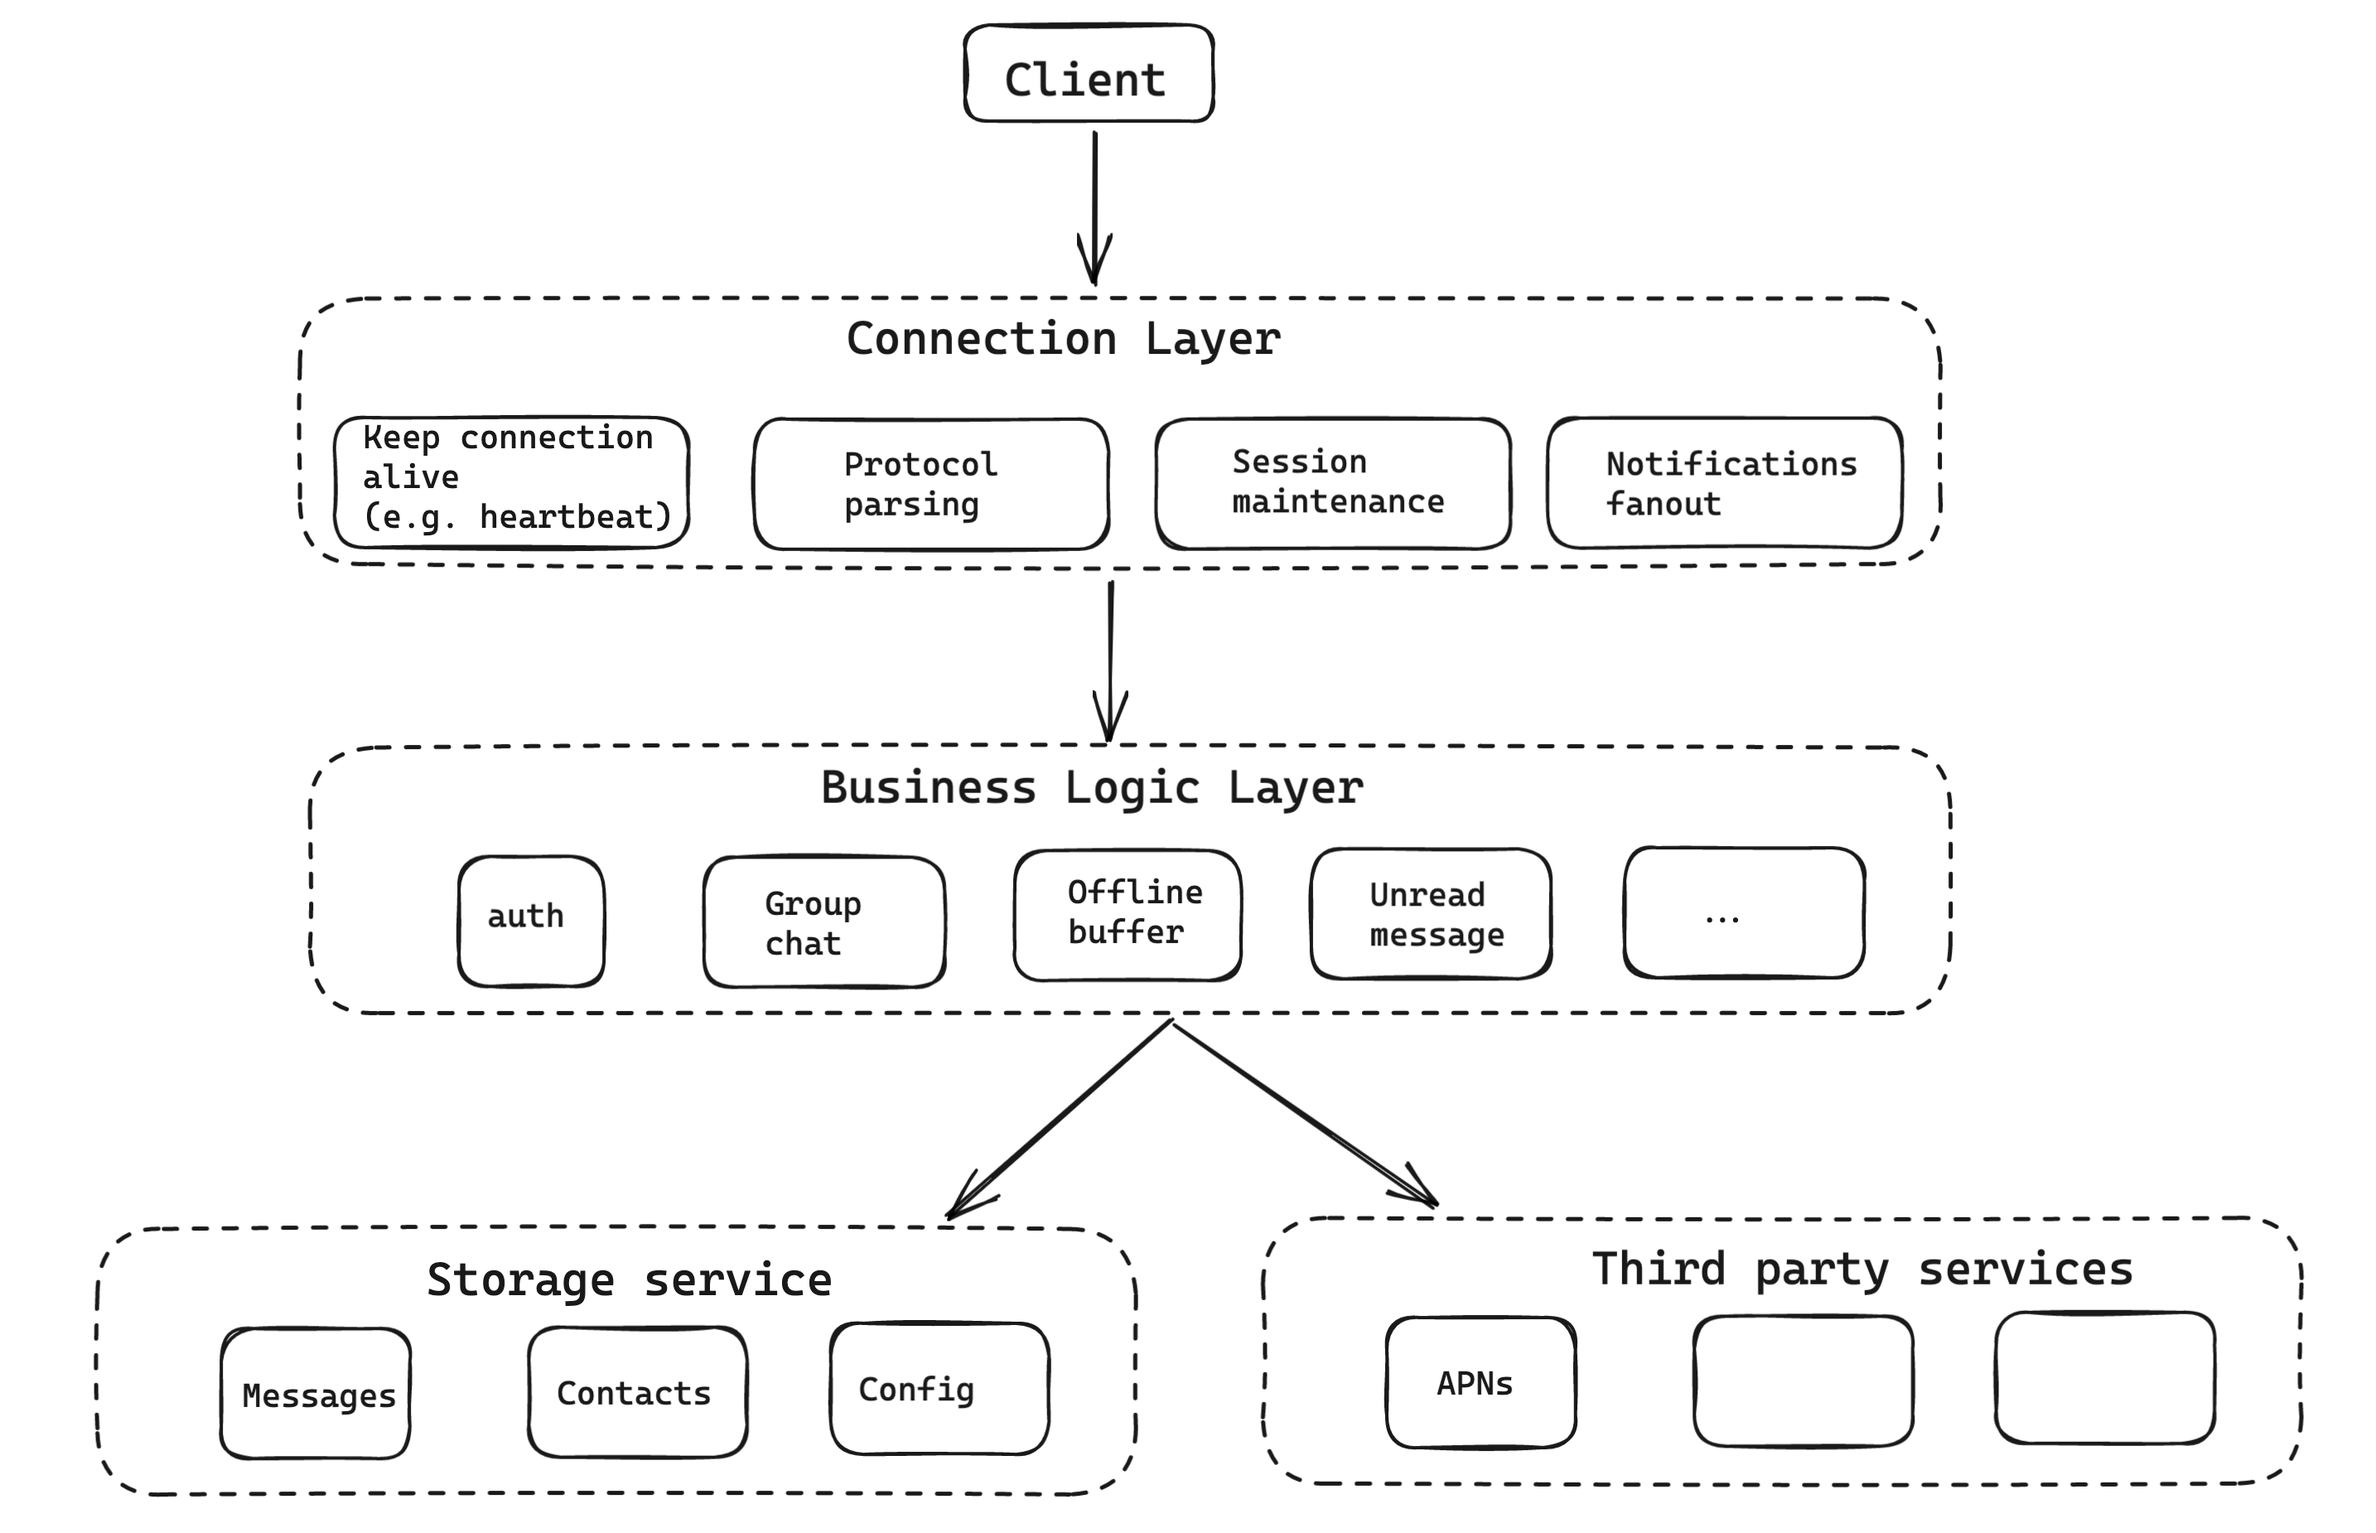
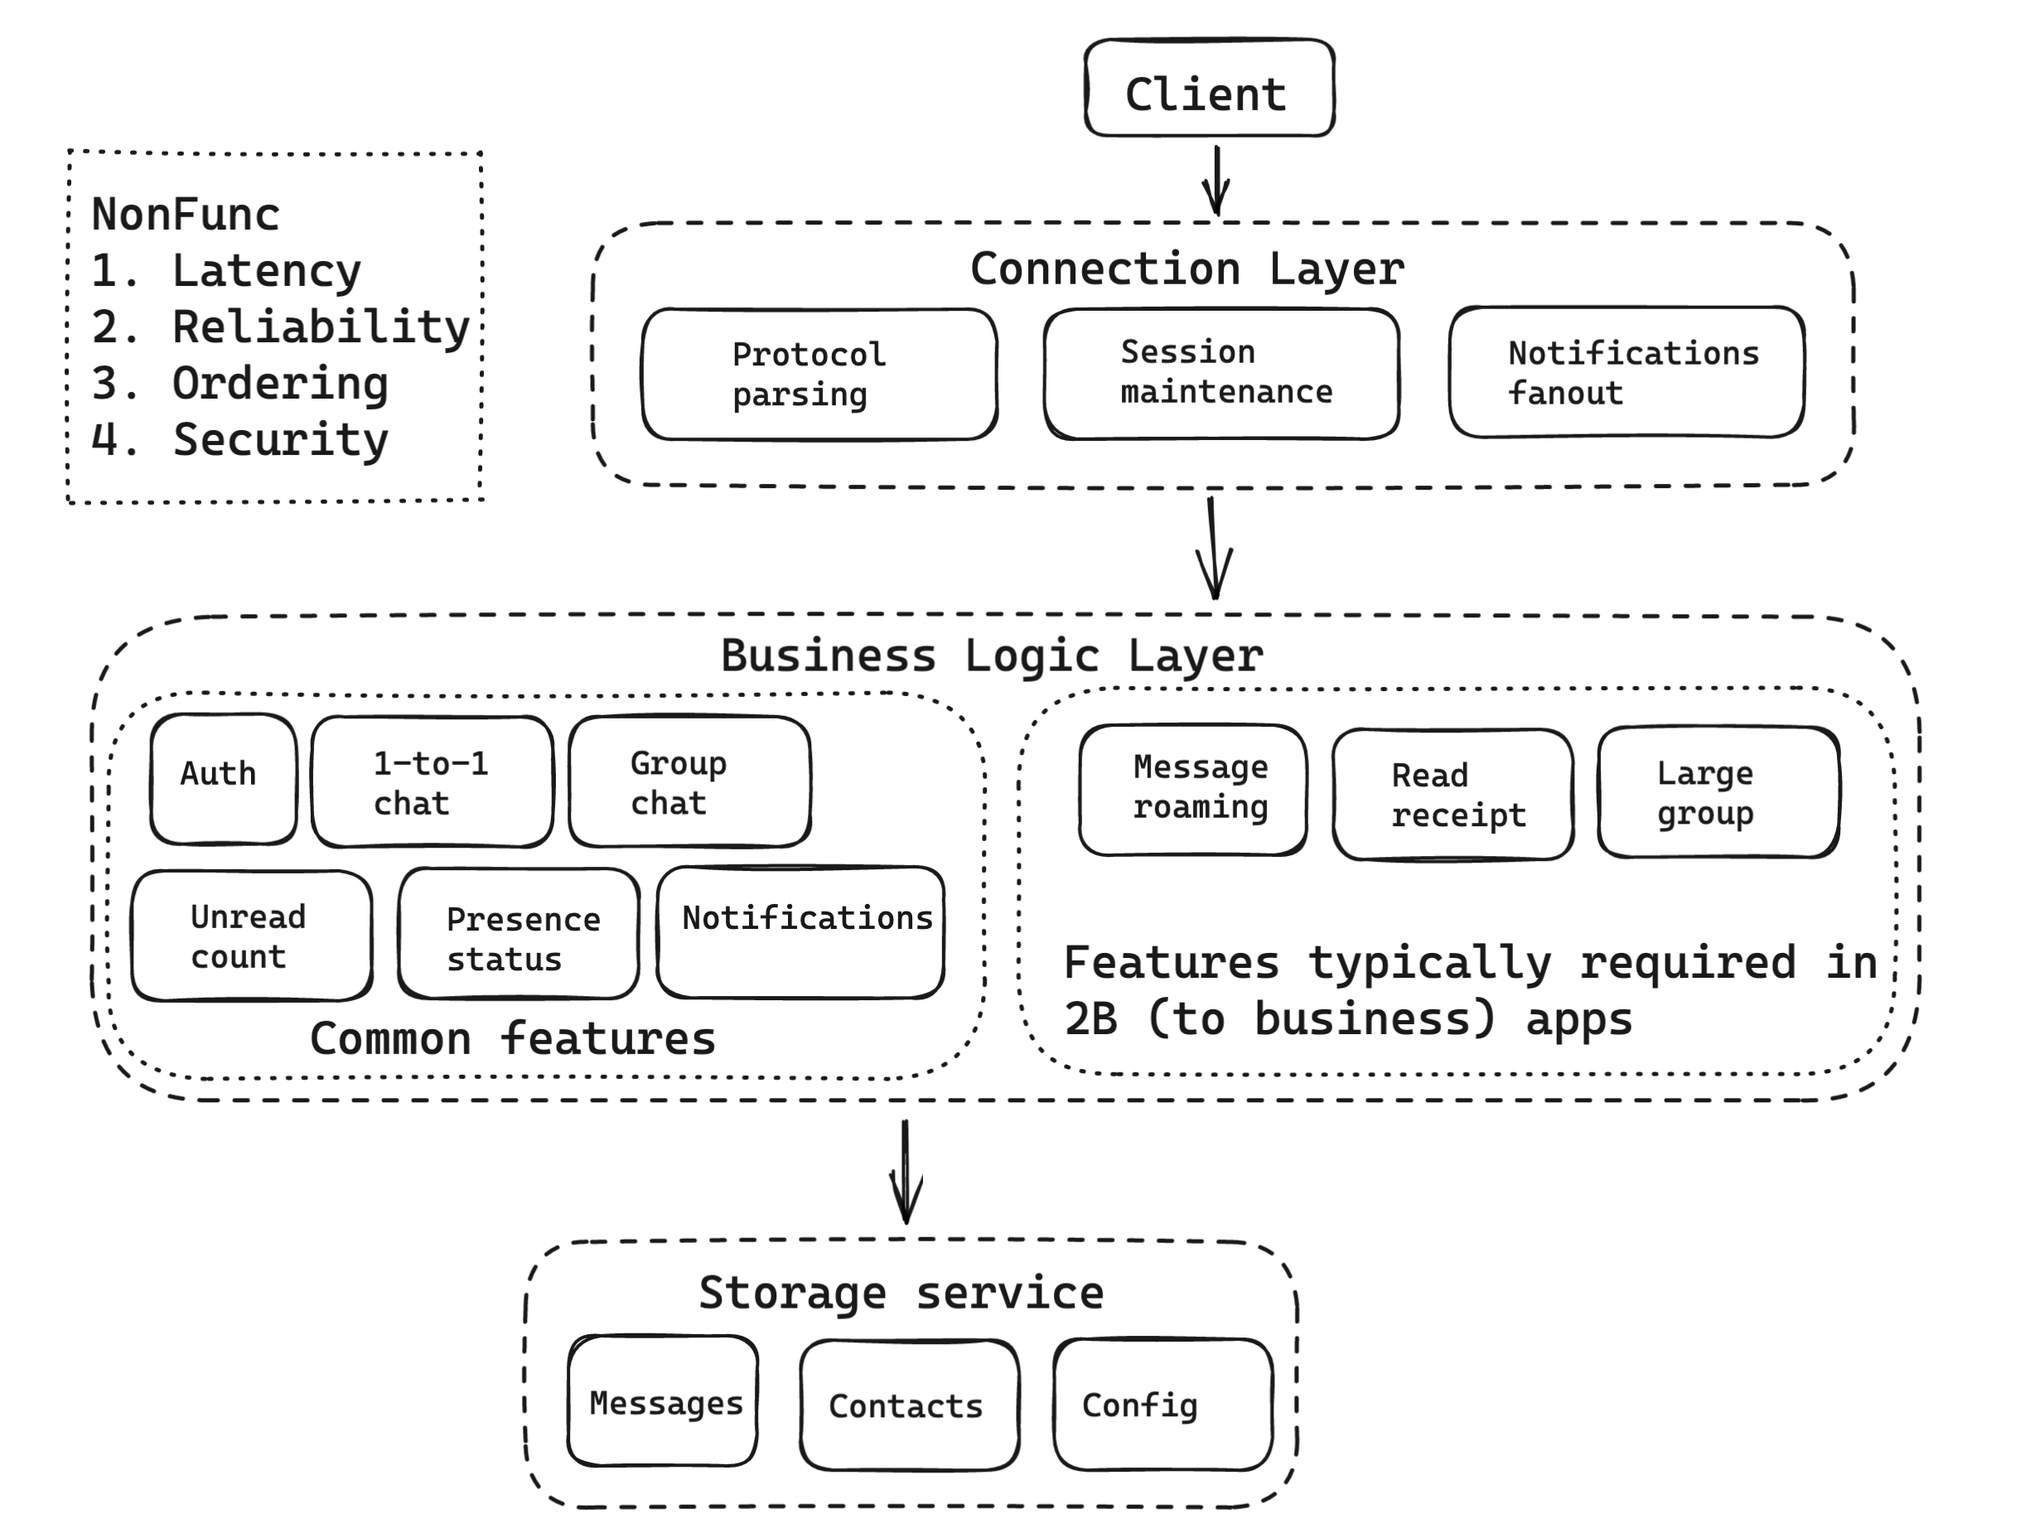
update architecture section pictures

diff --git a/scenario_messenger/architectureOverview.md b/scenario_messenger/architectureOverview.md
@@ -1,4 +1,6 @@
 - [Architecture](#architecture)
+  - [Initial architecture:](#initial-architecture)
+  - [Improved with message bus](#improved-with-message-bus)
   - [Connection layer](#connection-layer)
     - [Components](#components)
     - [Responsibilities](#responsibilities)
@@ -6,8 +8,18 @@
   - [Session data](#session-data)
 
 # Architecture
+## Initial architecture:
+* Cons:
+  * Hard to maintain and extend. All logics are centralized in a single app. 
+  * Perf bottleneck. All communications between connection and logic layer are synchronous. Different components within logic layer might have different performance. 
 
 ![](../.gitbook/assets/im_architecture_overview.png)
+
+## Improved with message bus
+
+
+![](../.gitbook/assets/im_architecture_improved.png)
+
 
 ## Connection layer
 ### Components
